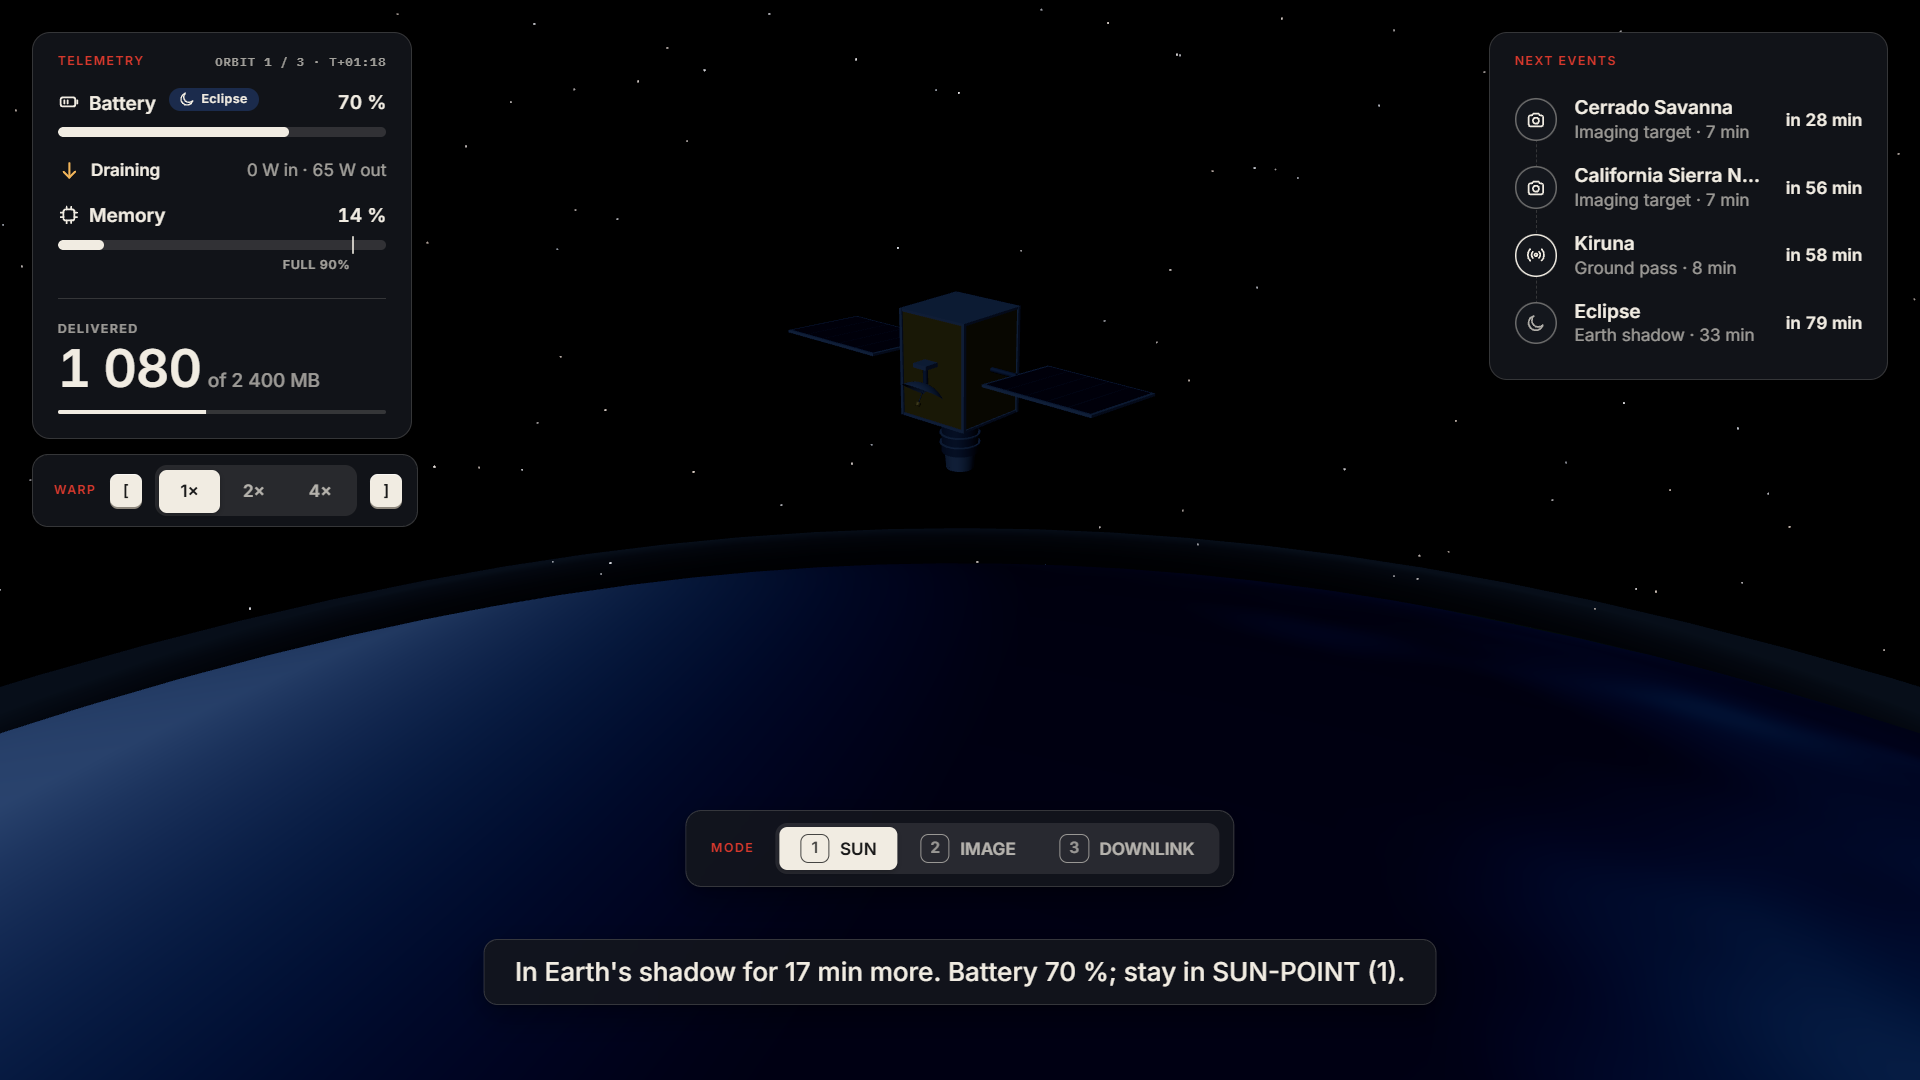
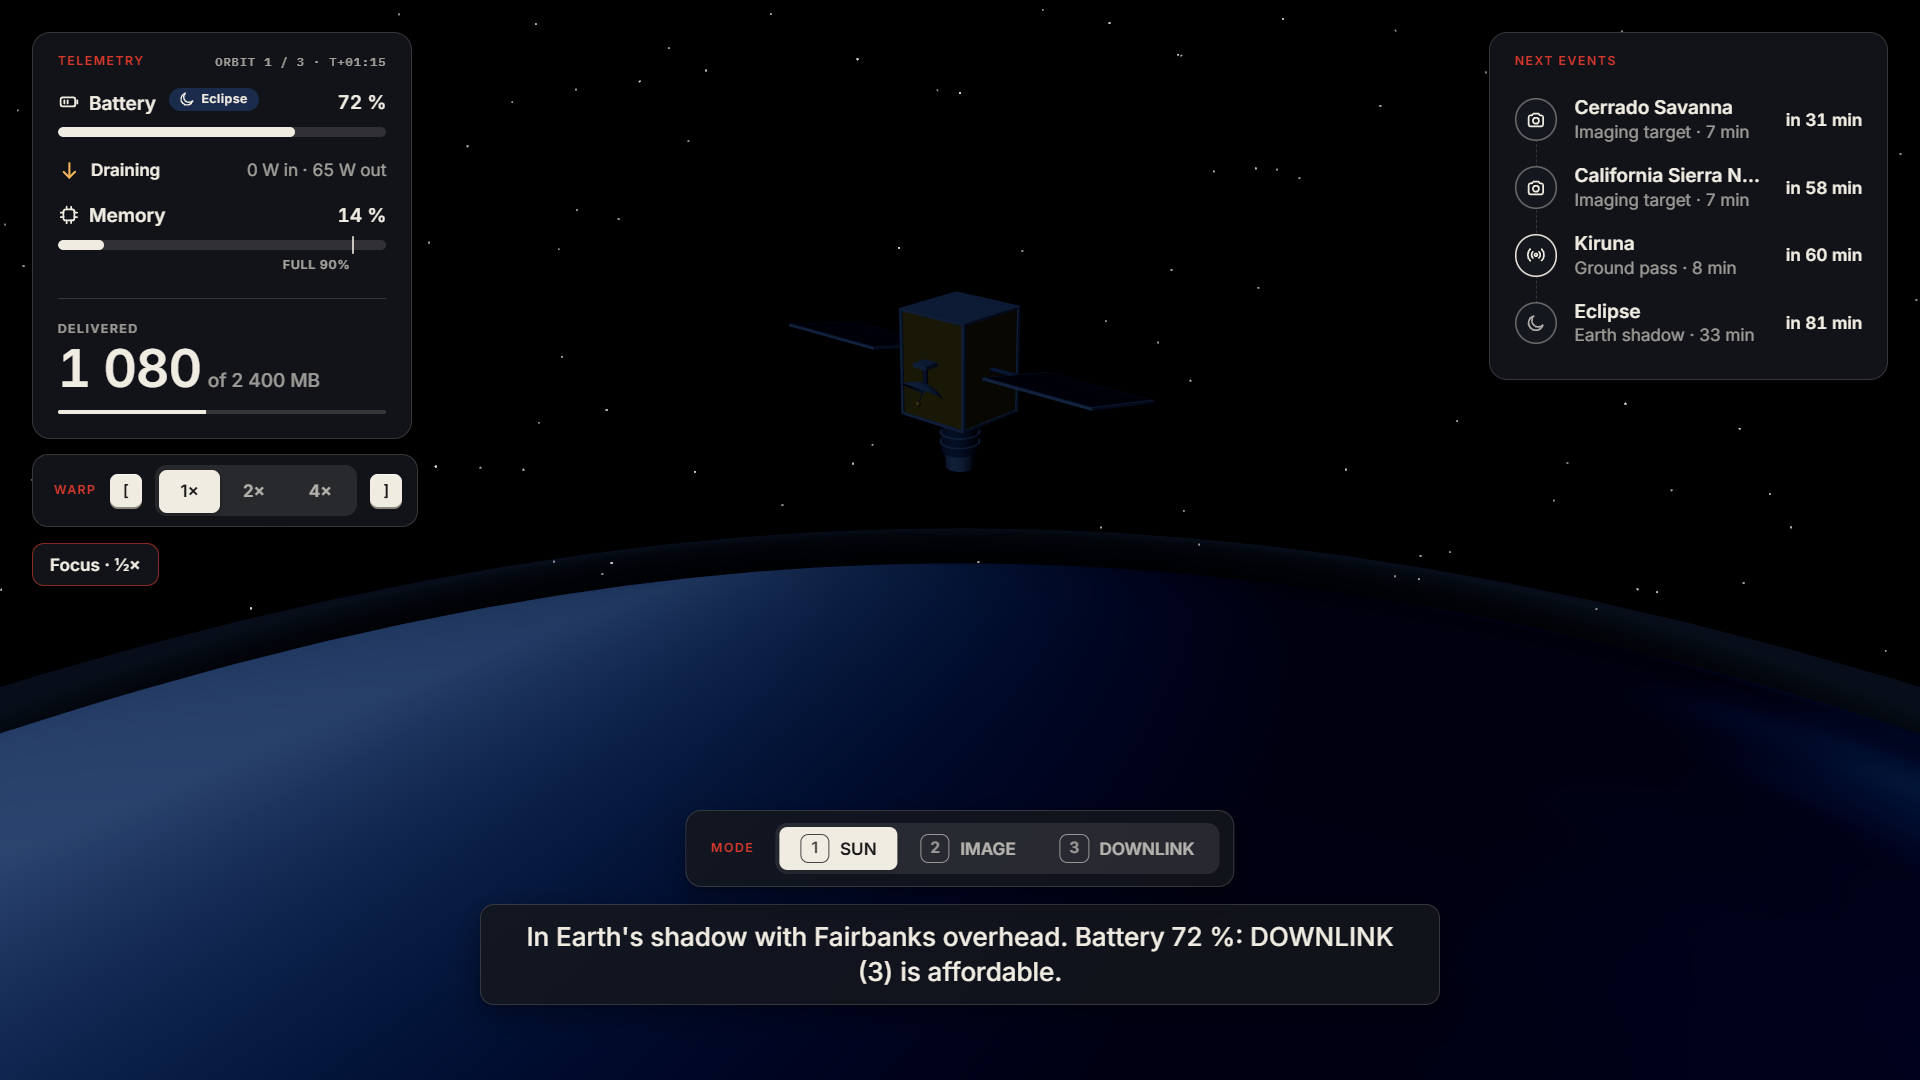
Debrief stars fill from the left; focus time while a window is open
Stars render by count (two stars = filled, filled, empty). While a target window or pass is open the orbit clock runs at half pace with warp suspended and restored afterwards; a Focus chip and a one-time toast explain it. Simulation results are unchanged.

diff --git a/src/scenes/orbit/clock.js b/src/scenes/orbit/clock.js
@@ -1,9 +1,11 @@
-// Pacing of the simulation: real seconds -> simulated minutes, the 1x / 2x / 4x time warp and the automatic
-// drop to 1x shortly before an imaging window or a ground pass opens.
+// Pacing of the simulation: real seconds -> simulated minutes, the 1x / 2x / 4x time warp, the automatic drop to 1x
+// shortly before an imaging window or a ground pass opens, and focus time (half pace, no warp) while one is open.
+// Pacing only: the simulation itself is stepped in simulated minutes, so results do not depend on any of this.
 
 export const WARPS = [1, 2, 4];
 const AUTO_DROP_REAL_SECONDS = 5; // at 1x, the player gets this long before a window opens
 const WATCHED = ['target', 'pass'];
+export const FOCUS_PACE = 0.5; // share of the 1x pace while a window is open
 
 export class OrbitClock {
   /**
@@ -16,10 +18,24 @@ export class OrbitClock {
     this.warp = 1;
     this.paused = true;
     this.onWarpDrop = null; // (event) => void
+    this.resumeWarp = null; // warp to restore once the window that interrupted it is over
+    this.wasFocus = false;
   }
 
   setWarp(value) {
     this.warp = value;
+    this.resumeWarp = null;
+  }
+
+  /** True while a target window or ground pass is open: time slows to half pace and warp is suspended. */
+  get focus() {
+    const s = this.sim.state;
+    return (s.inTarget || s.inPass) && !s.done;
+  }
+
+  /** Warp actually applied right now. */
+  get effectiveWarp() {
+    return this.focus ? 1 : this.warp;
   }
 
   /** Next target or pass that has not started yet (null at the end of the mission). */
@@ -28,6 +44,7 @@ export class OrbitClock {
   }
 
   #dropWarp(event) {
+    this.resumeWarp = this.warp;
     this.warp = 1;
     this.onWarpDrop?.(event);
   }
@@ -38,7 +55,13 @@ export class OrbitClock {
     let remaining = realSeconds;
     const before = this.sim.state.t;
     while (remaining > 1e-9 && !this.sim.state.done) {
-      const rate = this.minutesPerSecond * this.warp;
+      const focus = this.focus;
+      if (this.wasFocus && !focus && this.resumeWarp) {
+        this.warp = this.resumeWarp;
+        this.resumeWarp = null;
+      }
+      this.wasFocus = focus;
+      const rate = this.minutesPerSecond * (focus ? FOCUS_PACE : this.warp);
       let slice = remaining;
       let drop = null;
       const next = this.warp > 1 ? this.#nextWindow() : null;

diff --git a/src/scenes/orbit/hud.js b/src/scenes/orbit/hud.js
@@ -8,6 +8,8 @@ import { hintFor } from './hints.js';
 
 const TOAST_GAP_PX = 12;
 
+let focusExplained = false; // the focus-time toast appears once per session
+
 const MODE_GUIDE = [
   ['1', 'SUN-POINT', 'Panels face the Sun: full charging. Your resting mode, and the way to refill the battery before an eclipse.'],
   ['2', 'IMAGE', 'The instrument records, but only while a target window is open. Panels turn away: about half the power.'],
@@ -44,9 +46,12 @@ export function createOrbitHud(ctx, { mission, onMode, onWarp }) {
   const warpBar = el('div', 'night warp-bar');
   const warpSelect = segmented(WARPS.map((w) => `${w}×`), '1×', (label) => onWarp(parseInt(label, 10)), { night: true });
   warpBar.append(microLabel('Warp'), keyCap('[', { night: true }), warpSelect, keyCap(']', { night: true }));
+  const focusChip = el('div', 'night focus-chip', 'Focus · ½×');
+  focusChip.title = 'Time slows while a window is open';
+  focusChip.hidden = true;
   const labels = el('div', 'world-labels');
   const left = el('div', 'orbit-left');
-  left.append(kit.telemetry, warpBar);
+  left.append(kit.telemetry, warpBar, focusChip);
   screen.append(labels, left, kit.timeline, kit.modes);
 
   let guide = null;
@@ -68,7 +73,12 @@ export function createOrbitHud(ctx, { mission, onMode, onWarp }) {
       guide = null;
     },
 
-    update(state, upcoming, warp, { note = null, eclipseEndsIn = null } = {}) {
+    update(state, upcoming, warp, { note = null, eclipseEndsIn = null, focus = false } = {}) {
+      if (focus && focusChip.hidden && !focusExplained) {
+        focusExplained = true;
+        ctx.ui.toast('Focus time', { ms: 4200, detail: 'Time slows while a window is open.' });
+      }
+      focusChip.hidden = !focus;
       kit.update(state, upcoming);
       warpSelect.select(`${warp}×`);
       const hint = guide ? '' : note ?? hintFor(state, upcoming, { eclipseEndsIn });

diff --git a/css/hud.css b/css/hud.css
@@ -174,6 +174,8 @@
 .orbit-layout .mode-bar { position: absolute; bottom: calc(var(--margin) + 4vh + 6.2rem); left: 50%; translate: -50% 0; }
 .warp-bar { display: inline-flex; align-items: center; gap: 0.7rem; padding: 0.55rem 0.8rem 0.55rem 1.1rem; border-radius: 16px; }
 .warp-bar .key { height: 1.7rem; min-width: 1.7rem; font-size: max(15px, 0.82rem); }
+.focus-chip { display: inline-flex; align-items: center; padding: 0.4rem 0.9rem; border-radius: 12px; font-size: var(--fs-small); font-weight: 600; font-variant-numeric: tabular-nums; border-color: rgba(216, 56, 44, 0.6); }
+.focus-chip[hidden] { display: none; }
 .world-labels { position: absolute; inset: 0; overflow: hidden; }
 .world-label {
   position: absolute; left: 0; top: 0; display: inline-flex; align-items: center; gap: 0.5rem;

diff --git a/src/scenes/orbit/index.js b/src/scenes/orbit/index.js
@@ -128,9 +128,10 @@ export default {
     s.rig.update(dt, { x: 0, y: 0, z: 0 });
     s.world.update(state, dt, s.seconds, s.rig.camera);
     const eclipse = sim.schedule.eclipses.find((e) => state.t >= e.start && state.t < e.end);
-    s.hud.update(state, sim.upcoming(4), s.clock.warp, {
+    s.hud.update(state, sim.upcoming(4), s.clock.effectiveWarp, {
       note: s.ending ? 'Mission complete. Preparing the debrief.' : null,
       eclipseEndsIn: eclipse ? eclipse.end - state.t : null,
+      focus: s.clock.focus,
     });
 
     if (state.done && !s.ending) finishMission(s);

diff --git a/src/ui/panels.js b/src/ui/panels.js
@@ -344,7 +344,7 @@ export function debrief(result, { build = null, onRedesign = null, onFlyAgain = 
   left.append(microLabel('Debrief · LUMEN-1'), title);
   const primaryMet = result.objectives[0].met;
   const row = el('div', 'debrief__stars');
-  row.append(stars(result.objectives.map((o) => o.met && primaryMet)));
+  row.append(stars(result.stars)); // filled from the left; the objective rows above say which ones were met
   if (!primaryMet) row.append(el('p', 'debrief__starnote', 'Stars count once the primary goal is met.'));
   head.append(left, row);
 
